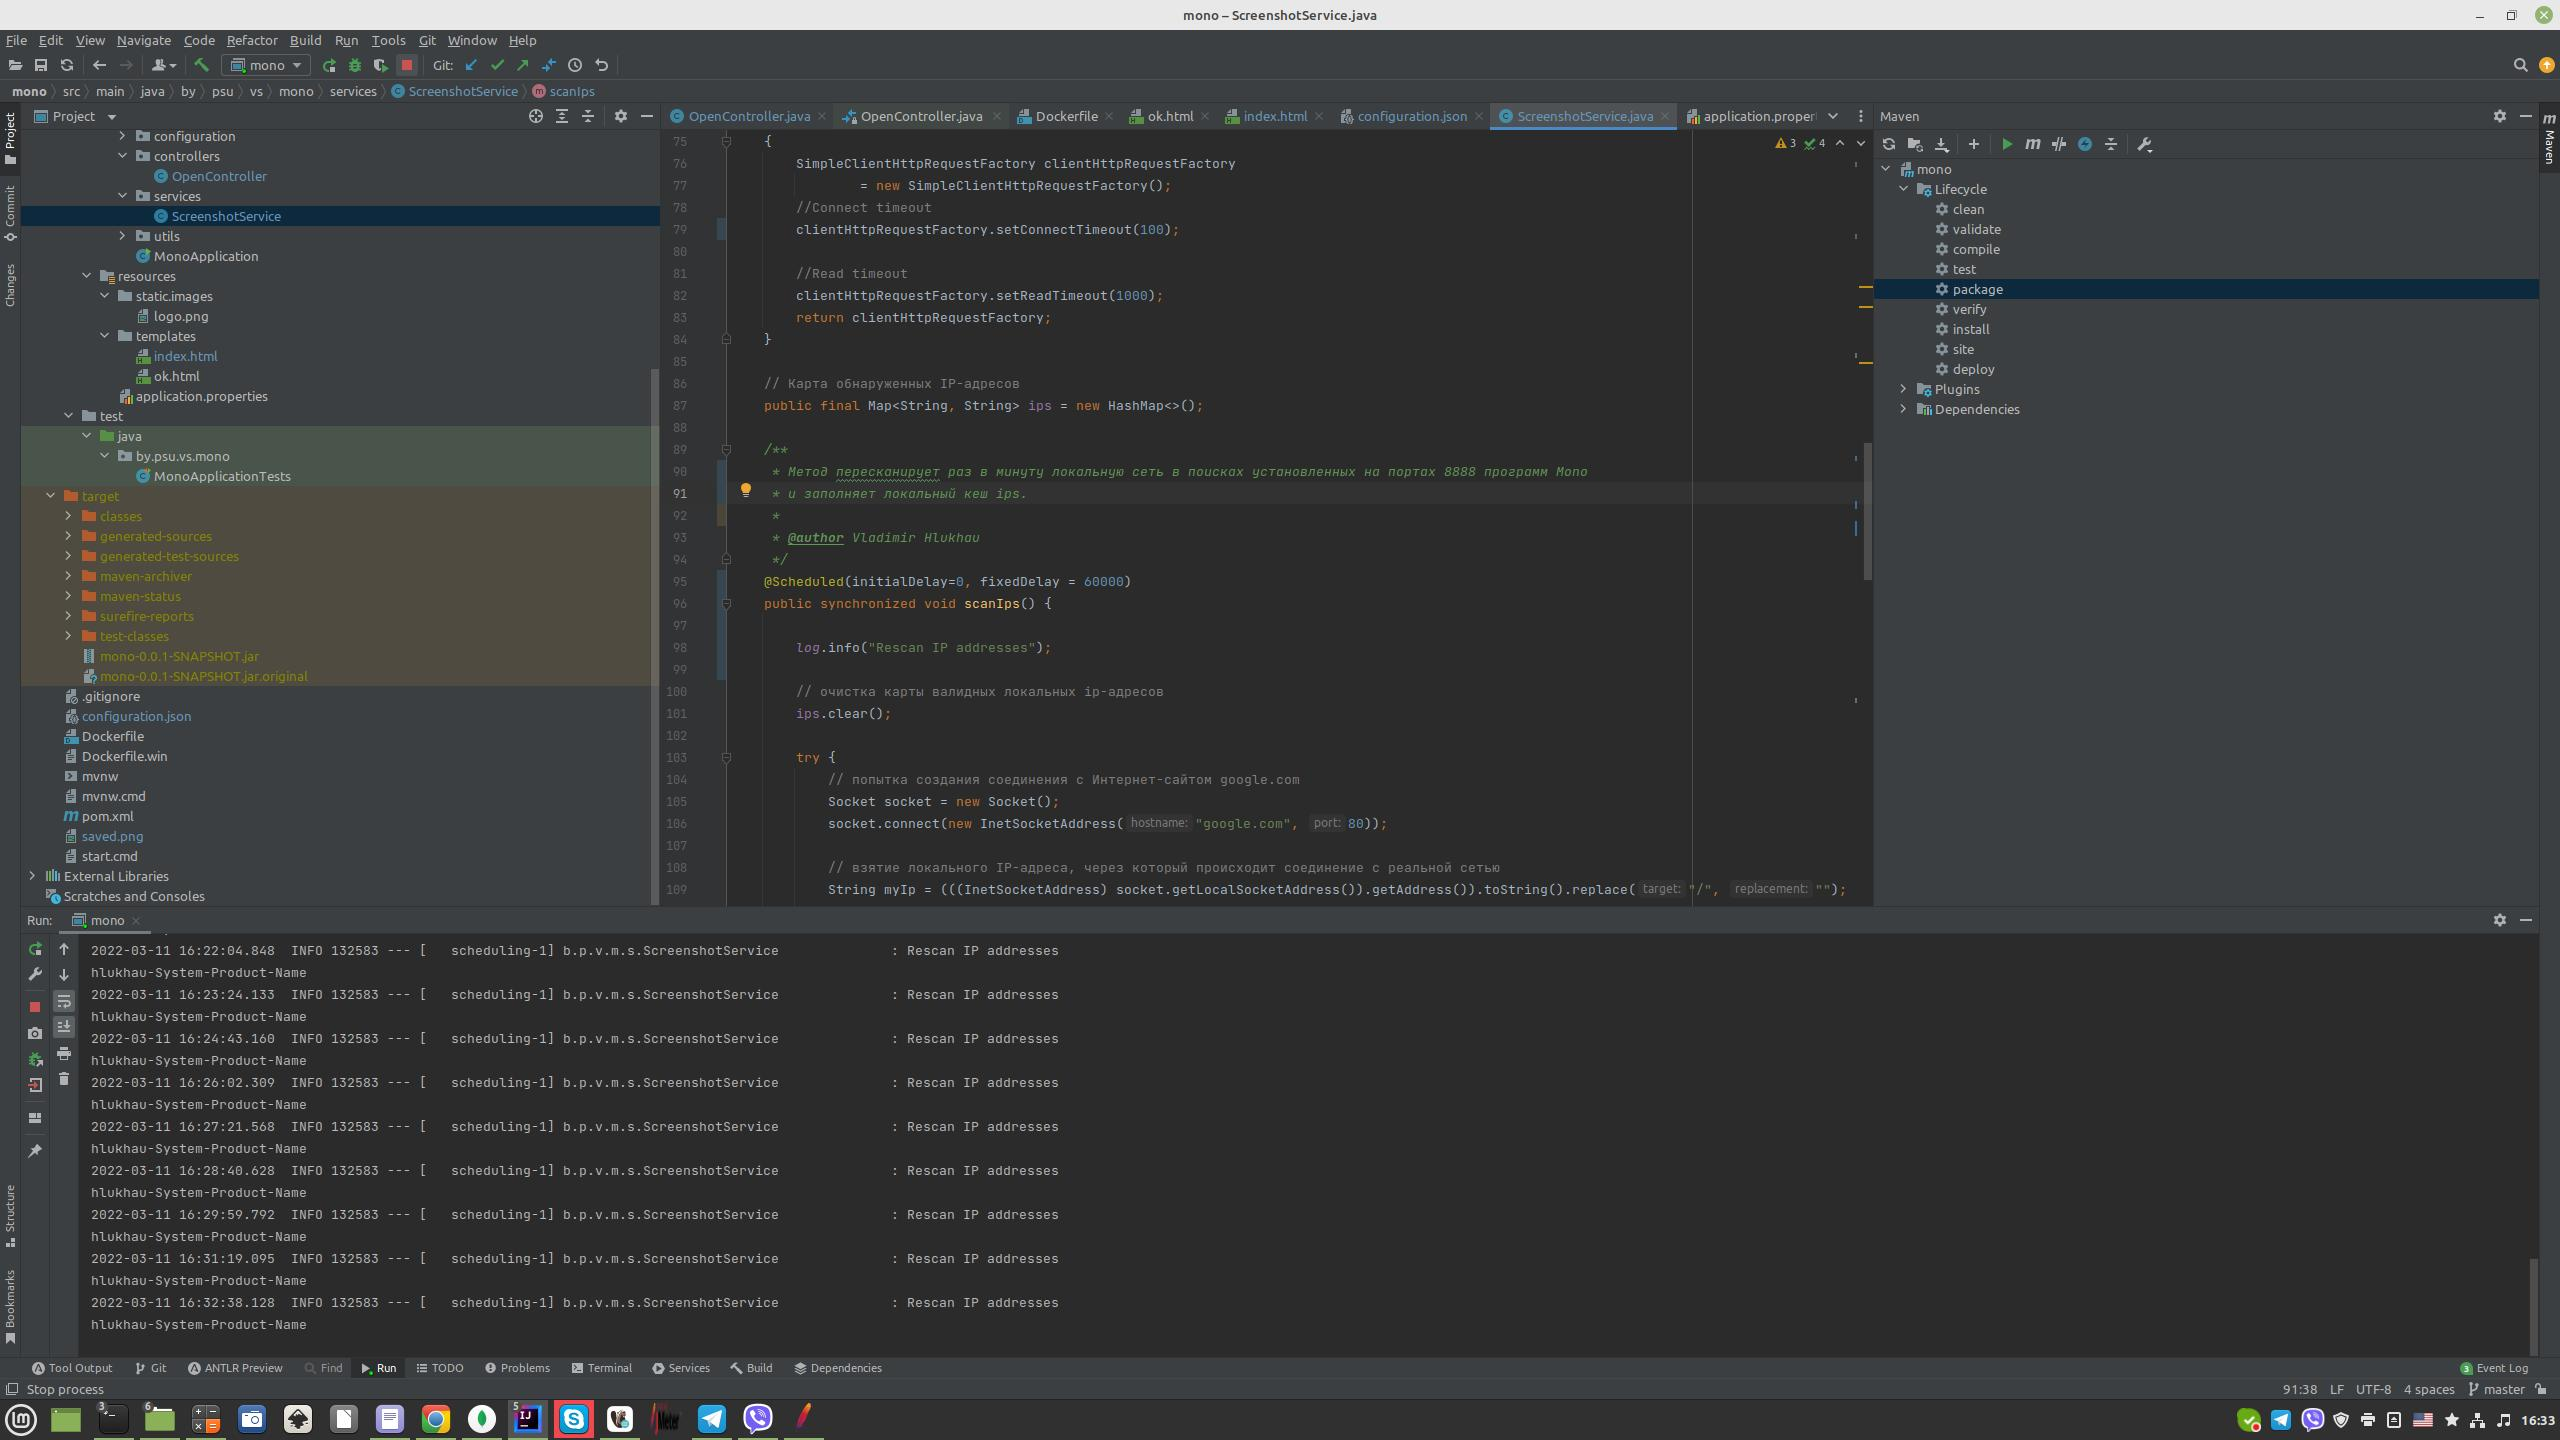
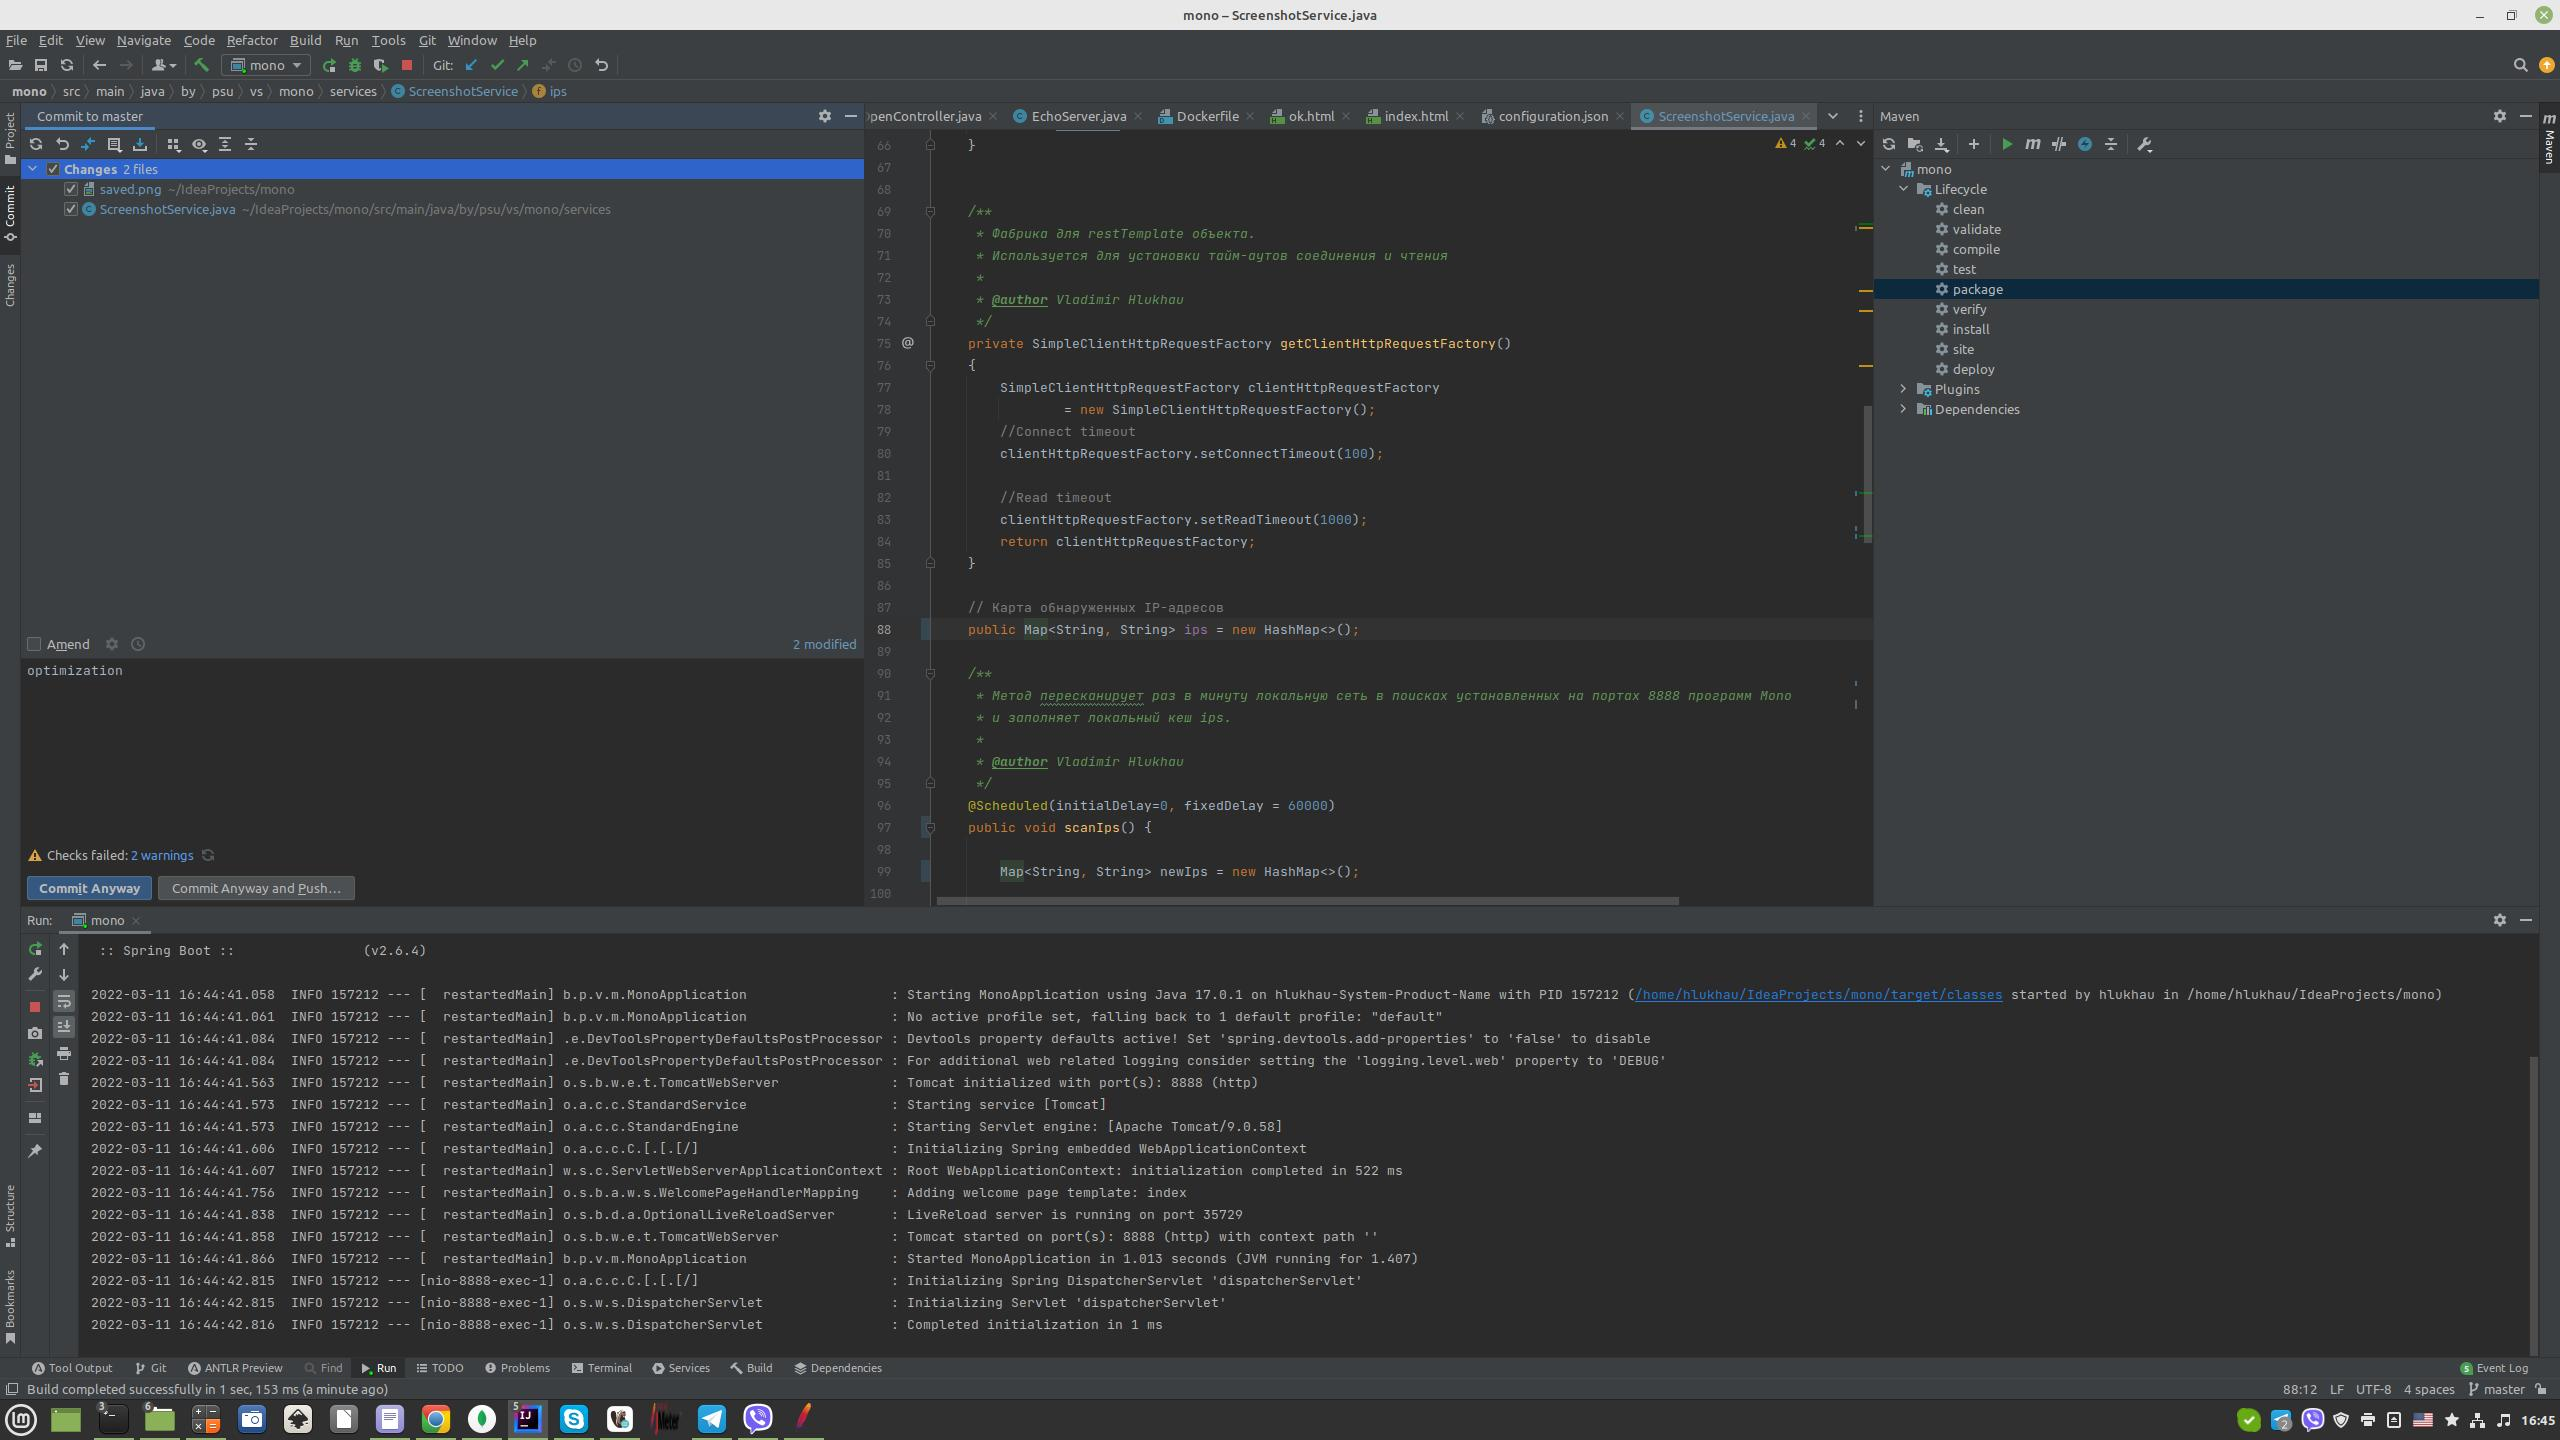
optimization

diff --git a/src/main/java/by/psu/vs/mono/services/ScreenshotService.java b/src/main/java/by/psu/vs/mono/services/ScreenshotService.java
@@ -16,6 +16,7 @@ import java.net.*;
 import java.nio.file.Files;
 import java.util.HashMap;
 import java.util.Map;
+import java.util.concurrent.ConcurrentHashMap;
 
 @Service
 @Slf4j
@@ -84,7 +85,7 @@ public class ScreenshotService {
     }
 
     // Карта обнаруженных IP-адресов
-    public final Map<String, String> ips = new HashMap<>();
+    public Map<String, String> ips = new HashMap<>();
 
     /**
      * Метод пересканирует раз в минуту локальную сеть в поисках установленных на портах 8888 программ Mono
@@ -93,10 +94,9 @@ public class ScreenshotService {
      * @author Vladimir Hlukhau
      */
     @Scheduled(initialDelay=0, fixedDelay = 60000)
-    public synchronized void scanIps() {
+    public void scanIps() {
 
-        // очистка карты валидных локальных ip-адресов
-        ips.clear();
+        Map<String, String> newIps = new HashMap<>();
 
         try {
             // попытка создания соединения с Интернет-сайтом google.com
@@ -133,11 +133,13 @@ public class ScreenshotService {
                     ResponseEntity<String> result = restTemplate.getForEntity(uri, String.class);
 
                     // помещение пары (url-получения скриншота, имя компьютера) в карту
-                    ips.put(image, result.getBody());
+                    newIps.put(image, result.getBody());
                 } catch (Exception ignored) {}
             }
         }
         catch (IOException ignored) {}
+
+        ips = newIps;
     }
 
     /**
